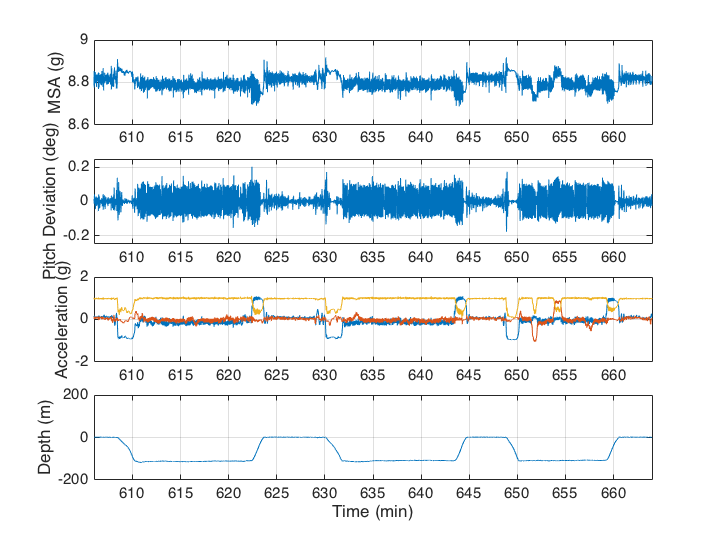
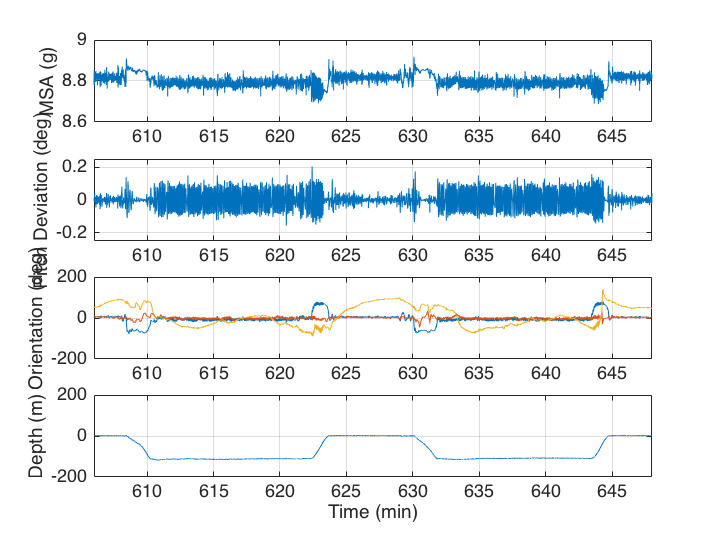
show prh instead of acc

Changed region(s): [[0.0306, 0.0889, 0.9167, 0.9778], [0.0917, 0.0593, 0.1222, 0.0889]]

diff --git a/PRHplotNARWcheck.m b/PRHplotNARWcheck.m
@@ -1,4 +1,12 @@
+load('NARW_foraging_tags')
+ID = 8;
+tag = tags{ID};
+loadprh(tag);
+t = (1:length(p))/fs;
+
 MSA = msa(Aw);
+[v,ph,mx,fr] = findflukes(Aw,Mw,fs,0.3,0.02,[2 8]); % calculate pitch deviation
+
 figure(31), clf
 ax(1) = subplot(411);
 plot(t/60,MSA), ylabel('MSA (g)'), grid on
@@ -6,11 +14,11 @@ ax(2) = subplot(412);
 plot(t/60,ph), ylabel('Pitch Deviation (deg)'), grid on
 ylim([-0.25 0.25])
 ax(3) = subplot(413);
-plot(t/60,Aw), ylabel('Acceleration (g)'), grid on
+plot(t/60,rad2deg([pitch roll head])), ylabel('Orientation (deg)'), grid on
 ax(4) = subplot(414);
 plot(t/60,-p), ylabel('Depth (m)'), grid on
 linkaxes(ax,'x')
-xlim([606 664]), xlabel('Time (min)')
+xlim([606 648]), xlabel('Time (min)')
 
-adjustfigurefont
+adjustfigurefont('Helvetica',14)
 print('NARW-PRH-depth.png','-dpng','-r90')
